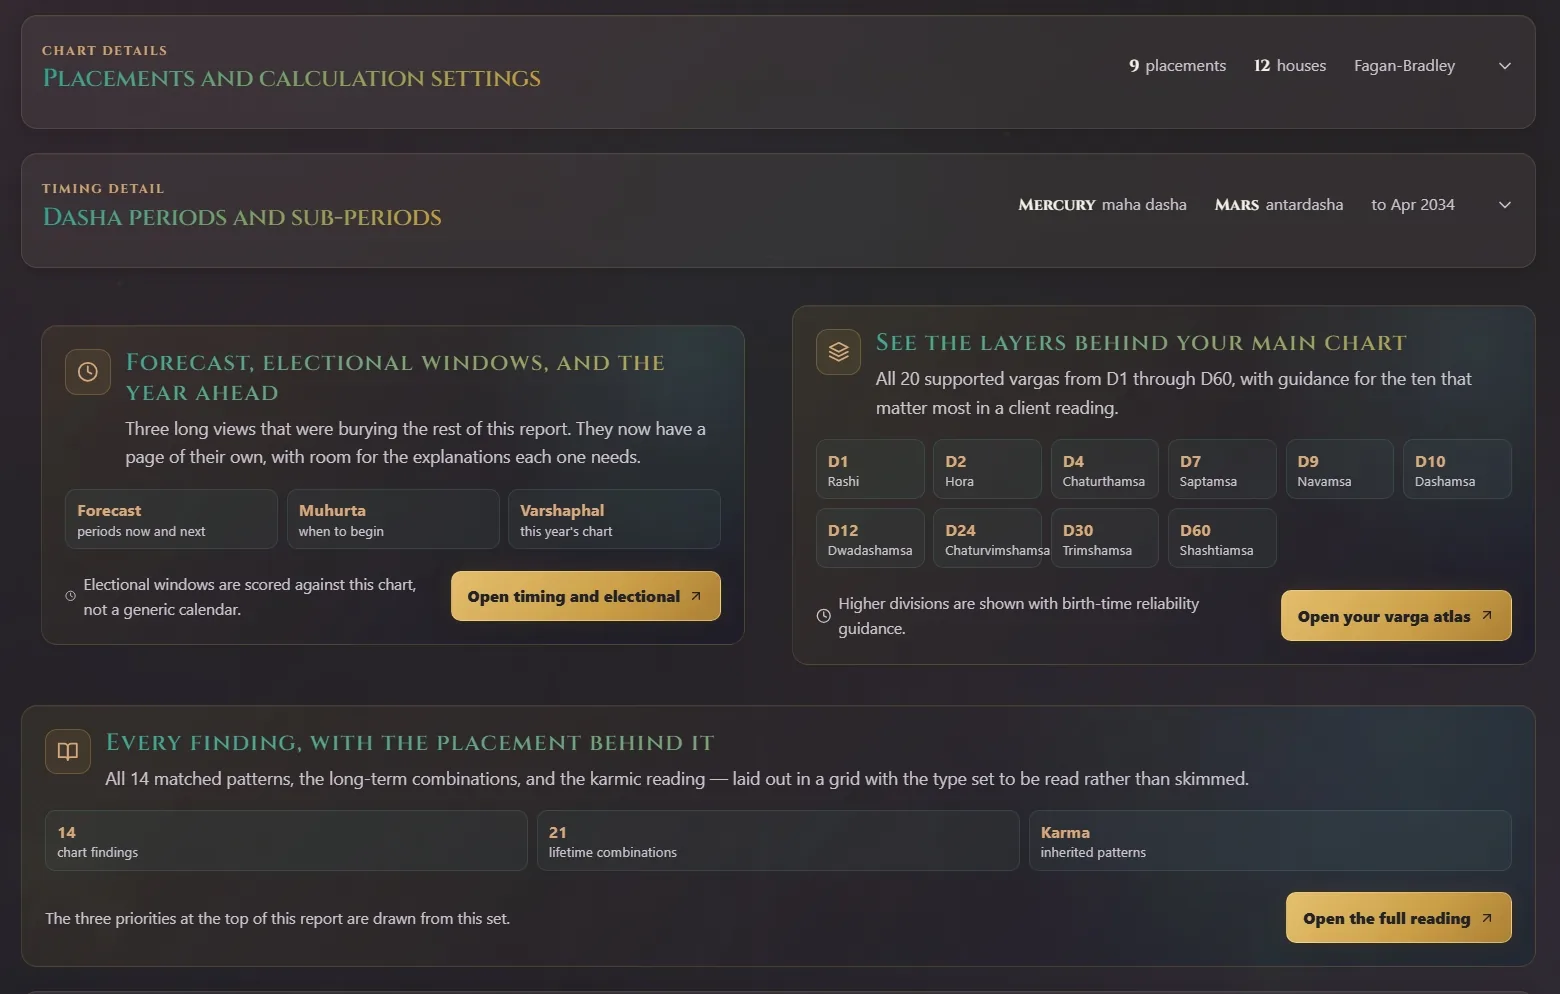
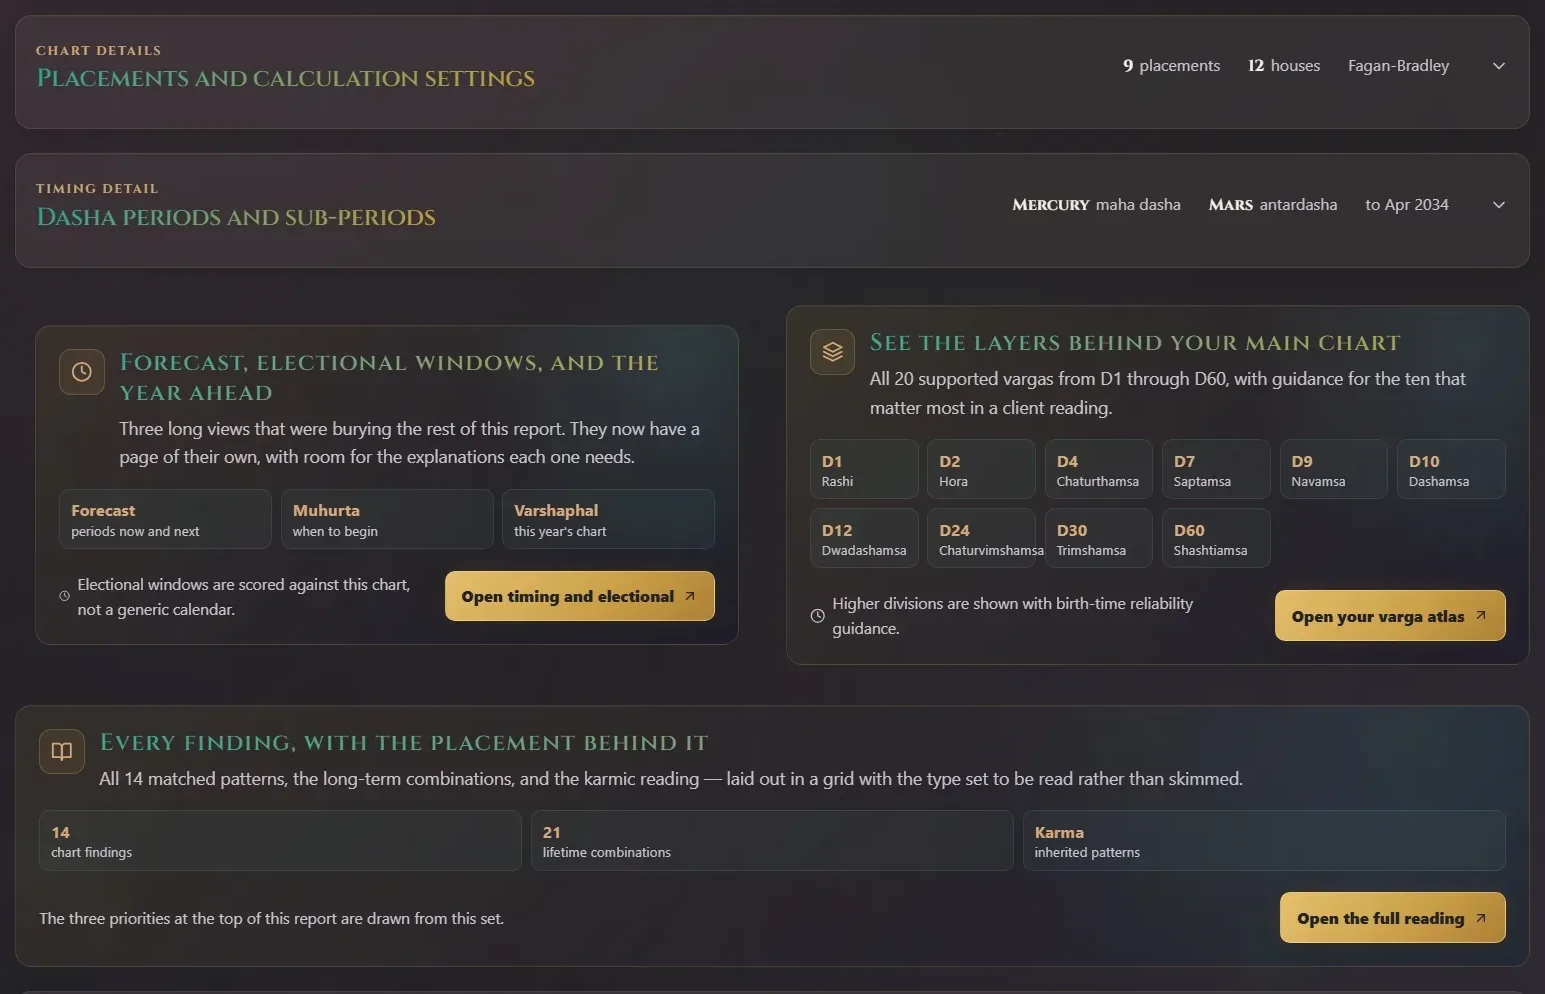
Crop the captures to their content instead of the viewport
Every plate was a full 1600px browser-viewport shot, so a large share of each
one was empty page ground. In the right rail that ground is what the 3.7x
downscale was being spent on: the workout capture carried 708px of actual
content inside 1600px, which put its UI text under 4px on screen.

Content bounds were measured per capture rather than eyeballed -- gradient
energy profiled over the middle band of rows, so the app's own full-width top
nav and bottom tab bar could not report every frame as edge-to-edge content,
and dark panels still register through their borders and text. The onboarding
capture is the one hand-corrected box: the detector locked onto out-of-focus
hair in the background photograph rather than the panel.

Effective downscale in the rail, worst case, goes from 3.7x to 1.7x. Total
media weight drops 528 KB to 495 KB, so the legibility is not bought with
bytes. width/height in content.ts are re-synced to the new intrinsic sizes;
left stale they would have reserved the wrong box and reintroduced the layout
shift the explicit dimensions exist to prevent.

diff --git a/lib/content.ts b/lib/content.ts
@@ -103,8 +103,8 @@ export const content: SiteContent = {
           alt: "The Lagna Atelier chart builder: a four-step birth-details form beside a live sky preview panel.",
           caption:
             "A four-step birth-details form, with the sky preview resolving beside it as each field is entered. There is no submit step: the chart is computed in the browser as the form fills.",
-          width: 1600,
-          height: 1000,
+          width: 1530,
+          height: 995,
         },
         {
           kind: "image",
@@ -112,7 +112,7 @@ export const content: SiteContent = {
           alt: "The Lagna Atelier natal wheel, showing planetary glyphs across twelve houses around a Cancer lagna, beneath three summary cards.",
           caption:
             "The computed wheel for a Cancer lagna, planetary glyphs placed across twelve houses. The three cards above it — first impression, the Mercury dasha running to April 2034, and the strongest planet — are selected from the chart's own matched findings.",
-          width: 1600,
+          width: 1528,
           height: 1202,
         },
         {
@@ -121,7 +121,7 @@ export const content: SiteContent = {
           alt: "The Lagna Atelier Ashtakavarga panel, showing a 92.6%-of-average dial for the first house beside a twelve-house bindus bar chart.",
           caption:
             "Every house scored against the 28.1-bindu average rather than against a maximum, with the first house broken out at 92.6% of it. The footnote flags that these twelve total 367 against a 337 pool — a discrepancy reported rather than smoothed over.",
-          width: 1600,
+          width: 1571,
           height: 1028,
         },
         {
@@ -130,7 +130,7 @@ export const content: SiteContent = {
           alt: "The Lagna Atelier report index, listing placements, dasha periods, twenty divisional charts from D1 to D60, and the matched findings.",
           caption:
             "Placements, calculation settings and dasha periods across the top. Below them, all twenty vargas from D1 to D60 and the fourteen matched findings, each behind its own view rather than stacked into one scrolling report.",
-          width: 1560,
+          width: 1545,
           height: 994,
         },
         {
@@ -140,7 +140,7 @@ export const content: SiteContent = {
           caption:
             "Where a finished reading hands off: today's transits against the natal chart, a two-profile partner comparison, or the wider specialist list. Each continues from the reading rather than repeating it.",
           width: 1600,
-          height: 539,
+          height: 522,
         },
       ],
       // TODO: still worth recording the palm-reading flow as a clip — it is the
@@ -184,8 +184,8 @@ export const content: SiteContent = {
           alt: "The Robust Health landing page, showing the weekly programming pitch above counters for plans generated and workouts completed.",
           caption:
             "The public landing page. Everything past it sits behind sign-in, so the plates below are captured from inside an account.",
-          width: 1600,
-          height: 1000,
+          width: 1550,
+          height: 963,
         },
         {
           kind: "image",
@@ -193,8 +193,8 @@ export const content: SiteContent = {
           alt: "The Robust Health onboarding screen, offering a personalised plan or a quick start on an existing programme.",
           caption:
             "Two ways in: a three-to-five minute questionnaire that generates a tailored first week, or a ready-made programme with optional body details for nutrition targets. Switching between them keeps whatever has already been entered.",
-          width: 1600,
-          height: 840,
+          width: 1041,
+          height: 775,
         },
         {
           kind: "image",
@@ -202,8 +202,8 @@ export const content: SiteContent = {
           alt: "The Robust Health member dashboard, showing the next workout beside a five-session week and the active programme's day, calorie and sleep targets.",
           caption:
             "The next session up front, the week's five workouts listed beside it, and the active Push/Pull/Legs programme below with its day count, calorie and sleep targets.",
-          width: 1600,
-          height: 1053,
+          width: 1098,
+          height: 989,
         },
         {
           kind: "image",
@@ -211,7 +211,7 @@ export const content: SiteContent = {
           alt: "The Robust Health workout player, showing a dips exercise with four tappable sets, rest, RPE and tempo, above an embedded form video.",
           caption:
             "One exercise at a time — three of seven here — with a form video above it. Sets are tapped off individually, and rest, RPE and tempo are carried per exercise rather than set once for the session.",
-          width: 1600,
+          width: 728,
           height: 1284,
         },
         {
@@ -220,8 +220,8 @@ export const content: SiteContent = {
           alt: "The Robust Health analytics view on a new account, with zeroed workout, weight and calorie-compliance cards above empty trend charts.",
           caption:
             "Captured on a new account, so every figure reads zero and both trend charts are empty. Weight, workout frequency and calorie compliance populate from logged sessions; plan history is already listing two.",
-          width: 1600,
-          height: 1088,
+          width: 1357,
+          height: 1084,
         },
       ],
     },
